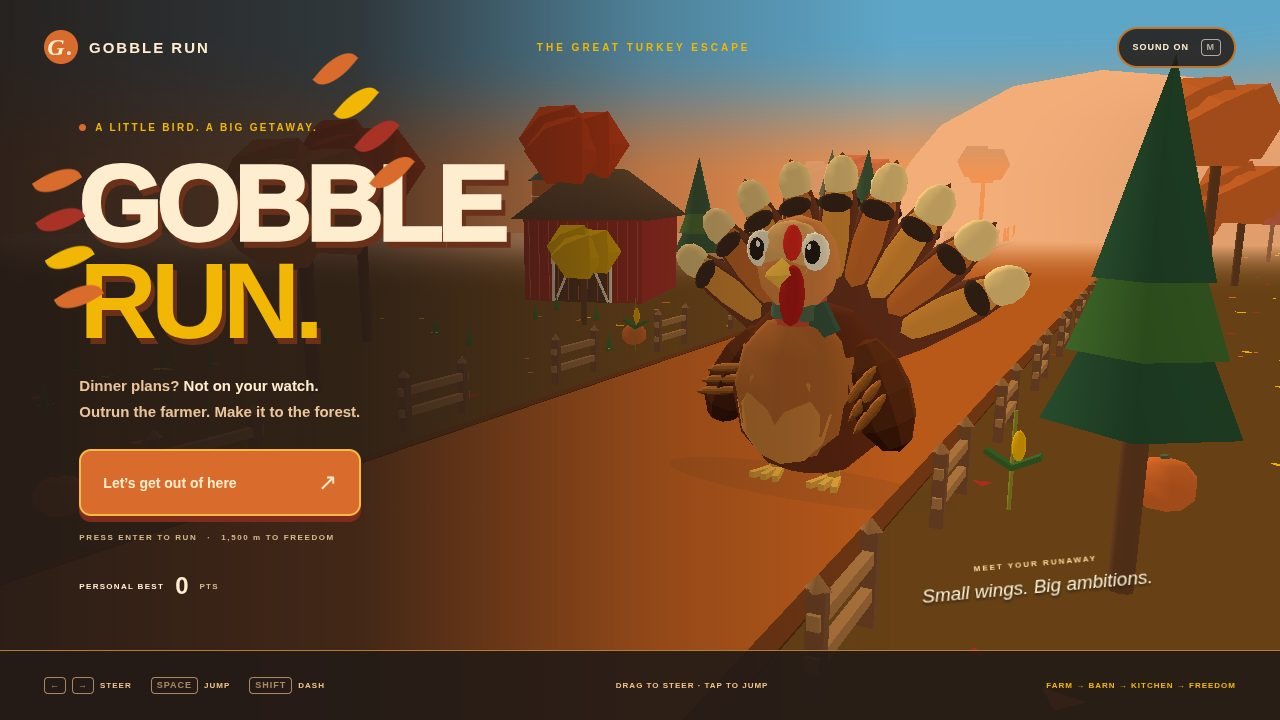
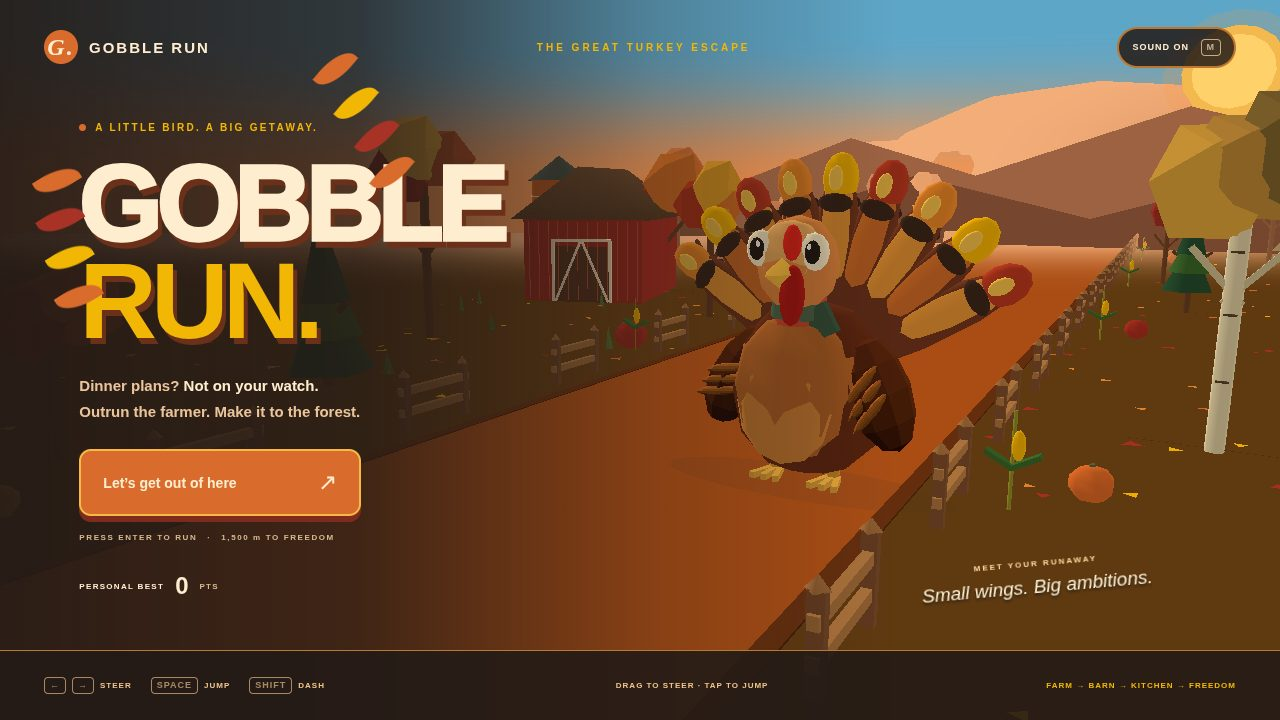
Polish: richer turkey, sunset, kitchen, and forest

diff --git a/game/src/render3d.js b/game/src/render3d.js
@@ -5,8 +5,30 @@ import {ZONES,clamp} from './config.js';
 import {turkey,farmer,animateTurkey,animateFarmer,mesh,ball,box,cyl,material} from './turkey.js';
 const C={wood:0x805232,dark:0x553922,straw:0xe4b34f,leaf:0xc27631};
 function contact(parent,x,z,r=1,opacity=.12){const m=new T.Mesh(new T.CircleGeometry(r,16).scale(1.8,.65,1),new T.MeshBasicMaterial({color:0x4d3621,transparent:true,opacity,depthWrite:false}));m.rotation.x=-Math.PI/2;m.position.set(x,.018,z);parent.add(m);return m;}
-function tree(rng){const g=new T.Group(),height=3+rng()*3;const evergreen=rng()<.25;cyl(g,0x6b4226,0,height*.45,0,.16,height);if(evergreen){for(let i=0;i<3;i++)mesh(g,new T.ConeGeometry(1.15-i*.23,2.6,5),i%2?0x3e6b2f:0x285034,0,height*.6+i*.9,0);}else{const color=[0xd96c2c,0xa93226,0xf2b705,0xe54416][Math.floor(rng()*4)];for(let i=0;i<3;i++){const a=i*2.4;mesh(g,new T.IcosahedronGeometry(1,0),color,Math.sin(a)*.65,height+i*.23,Math.cos(a)*.6,[1.45,1.35,1.3]);}}return g;}
-function pumpkin(p,x,y,z,s=1){const g=new T.Group();p.add(g);g.position.set(x,y,z);g.scale.setScalar(s);mesh(g,new T.SphereGeometry(.46,7,5),0xd96c2c,0,.34,0,[1,.85,1]);const stem=cyl(g,0x596341,0,.65,0,.06,.22);stem.rotation.z=.2;return g;}
+function ridge(parent,color,z,points){const shape=new T.Shape();shape.moveTo(points[0][0],points[0][1]);for(let i=1;i<points.length;i++)shape.lineTo(points[i][0],points[i][1]);shape.lineTo(points[points.length-1][0],-28);shape.lineTo(points[0][0],-28);shape.closePath();const m=new T.Mesh(new T.ShapeGeometry(shape),new T.MeshBasicMaterial({color,side:T.DoubleSide,fog:false}));m.position.z=z;parent.add(m);return m;}
+function tree(rng){
+ const g=new T.Group(),height=3+rng()*3,type=rng(),birch=type<.2,evergreen=type>=.2&&type<.46;
+ cyl(g,birch?0xd9cfad:0x6b4226,0,height*.45,0,birch?.19:.16,height,undefined,7);
+ const branch=(x,y,side,color=birch?0xc9bd99:0x704528,lean=.62)=>{const b=box(g,color,x,y,0,[.13,1.5,.13]);b.rotation.z=-side*lean;};
+ if(evergreen){
+  for(let i=0;i<3;i++){const size=1.2-i*.25,cy=height*.42+i*.93;mesh(g,new T.ConeGeometry(size,2.45,5),i%2?0x3e6b2f:0x285034,0,cy,0);if(i===0)for(const side of [-1,1])branch(side*.28,height*.47,side,0x674327,.9);}
+ }else if(birch){
+  for(const y of [.27,.52,.75])box(g,0x594832,0,y*height,.195,[.24,.045,.035]);
+  for(const side of [-1,1])branch(side*.32,height*.66,side,0xc9bd99,.72);
+  const shades=[0x7f6632,0xb98a3c,0xd9a641];
+  for(let i=0;i<3;i++)mesh(g,new T.IcosahedronGeometry(1,0),shades[(i+Math.floor(rng()*3))%3],(i-1)*.58,height+i*.28,0,[1.05+rng()*.35,1.05+rng()*.32,1.05+rng()*.3]);
+ }else{
+  for(const side of [-1,1])branch(side*.35,height*.56,side,0x704528,.7);
+  const palettes=[[0xa93226,0xd96c2c,0xf2b705],[0xb53b22,0xe17a2d,0xe9a72e],[0x9c3024,0xc95b2d,0xf0b947]];
+  const colors=palettes[Math.floor(rng()*palettes.length)];
+ const lobes=rng()<.4?2:3;for(let i=0;i<lobes;i++){const x=(rng()-.5)*1.6,z=(rng()-.5)*1.4;mesh(g,new T.IcosahedronGeometry(1,0),colors[i%3],x,height+i*.32,z,[1.05+rng()*.42,1.05+rng()*.4,1.02+rng()*.4]);}
+ }
+ const shade=mesh(g,new T.CircleGeometry(1,10),0x49341f,0,.025,0,[1.9,.02,1.25]);shade.rotation.x=-Math.PI/2;
+ const leafColors=[0xd96c2c,0xa93226,0xf2b705];
+ for(let i=0;i<2;i++){const leaf=mesh(g,new T.CircleGeometry(.16+rng()*.08,3),leafColors[Math.floor(rng()*leafColors.length)],(rng()-.5)*2,.035,(rng()-.5)*1.4);leaf.rotation.x=-Math.PI/2;leaf.rotation.z=rng()*6;}
+ return g;
+}
+function pumpkin(p,x,y,z,s=1,color=0xd96c2c){const g=new T.Group();p.add(g);g.position.set(x,y,z);g.scale.setScalar(s);mesh(g,new T.SphereGeometry(.46,7,5),color,0,.34,0,[1,.85,1]);const stem=cyl(g,0x596341,0,.65,0,.06,.22);stem.rotation.z=.2;return g;}
 function fence(){const g=new T.Group();for(const x of [-1,1]){box(g,C.wood,x,.65,0,[.17,1.3,.22]);mesh(g,new T.ConeGeometry(.16,.18,4),0xaa7644,x,1.38,0);}for(const y of [.45,.95])box(g,0xad7945,0,y,0,[2.3,.18,.15]);return g;}
 function hay(){const g=new T.Group();box(g,C.straw,0,.68,0,[1.85,1.36,1.45]);for(const x of [-.53,.53])box(g,0xa88037,x,.69,.01,[.075,1.4,1.48]);for(let j=0;j<7;j++)box(g,0xf2c86a,-.79+j*.26,.45+(j%3)*.25,.74,[.15,.026,.015]);return g;}
 function cart(){const g=new T.Group();box(g,0x845532,0,.73,0,[2.05,.26,2]);for(const x of [-1,1]){for(let j=0;j<3;j++)box(g,j%2?0xb2804d:0xa3703f,x,1+j*.24,0,[.12,.18,2]);for(const z of [-.65,.65]){const w=cyl(g,0x4f3927,x*1.13,.44,z,.43,.15,.43,12);w.rotation.z=Math.PI/2;const hub=cyl(g,0xc9a25f,x*1.23,.44,z,.13,.17);hub.rotation.z=Math.PI/2;}}const bale=hay();bale.scale.setScalar(.65);bale.position.y=.85;g.add(bale);return g;}
@@ -17,21 +39,27 @@ function barn(){const g=new T.Group();box(g,0xa93226,0,2,0,[6,4,8]);const roofGe
 export class Renderer3D{
  constructor(canvas,{deterministic=false}={}){const probe=document.createElement('canvas');const gl=probe.getContext('webgl2')||probe.getContext('webgl');if(!gl)throw new Error('WebGL unavailable');const ext=gl.getExtension('WEBGL_debug_renderer_info');this.device=ext?gl.getParameter(ext.UNMASKED_RENDERER_WEBGL):gl.getParameter(gl.RENDERER);this.software=/swiftshader|llvmpipe|software/i.test(this.device);this.deterministic=deterministic;this.pixelRatio=this.software?(deterministic?1:.35):Math.min(devicePixelRatio,1.75);gl.getExtension('WEBGL_lose_context')?.loseContext();
   this.renderer=new T.WebGLRenderer({canvas,antialias:!this.software,powerPreference:'high-performance'});this.renderer.setPixelRatio(this.pixelRatio);this.renderer.outputColorSpace=T.SRGBColorSpace;this.renderer.toneMapping=T.NoToneMapping;this.renderer.toneMappingExposure=1;this.renderer.shadowMap.enabled=!this.software;this.renderer.shadowMap.type=T.PCFSoftShadowMap;
-  this.scene=new T.Scene();this.scene.background=new T.Color(0xf3ad79);this.scene.fog=new T.Fog(0xf3ad79,48,100);this.camera=new T.PerspectiveCamera(43,1,.1,110);this.scene.add(new T.HemisphereLight(0xffdeb0,0x57341f,1.65));const sun=new T.DirectionalLight(0xffb868,2.15);sun.position.set(-18,14,-12);sun.castShadow=!this.software;sun.shadow.mapSize.set(1024,1024);Object.assign(sun.shadow.camera,{left:-20,right:20,top:20,bottom:-20,near:1,far:70});sun.shadow.bias=-.002;this.scene.add(sun);const rim=new T.DirectionalLight(0xffd36b,1.5);rim.position.set(8,6,-16);this.scene.add(rim);
+  this.scene=new T.Scene();this.scene.background=new T.Color(0xf3ad79);this.scene.fog=new T.Fog(0xf3ad79,48,100);this.camera=new T.PerspectiveCamera(43,1,.1,110);this.scene.add(new T.HemisphereLight(0xffd6a6,0x49301d,1.35));const sun=new T.DirectionalLight(0xffb45d,1.9);sun.position.set(-18,14,-12);sun.castShadow=!this.software;sun.shadow.mapSize.set(1024,1024);Object.assign(sun.shadow.camera,{left:-20,right:20,top:20,bottom:-20,near:1,far:70});sun.shadow.bias=-.002;this.scene.add(sun);const rim=new T.DirectionalLight(0xffcb72,1.15);rim.position.set(8,6,-16);this.scene.add(rim);
   // A single procedural gradient dome follows the camera; no texture or network asset.
   const skyGeo=new T.SphereGeometry(105,8,6);const skyMat=new T.ShaderMaterial({side:T.BackSide,depthWrite:false,uniforms:{},vertexShader:'varying vec3 v;void main(){v=position;gl_Position=projectionMatrix*modelViewMatrix*vec4(position,1.);}',fragmentShader:'varying vec3 v;void main(){float h=smoothstep(0.,14.,v.y);gl_FragColor=vec4(mix(vec3(.95,.58,.32),vec3(.37,.65,.78),h),1.);}'});this.sky=new T.Mesh(skyGeo,skyMat);this.sky.frustumCulled=false;this.scene.add(this.sky);
+  this.horizon=new T.Group();this.sky.add(this.horizon);
+  const halo=new T.Mesh(new T.CircleGeometry(5.5,16),new T.MeshBasicMaterial({color:0xff963d,transparent:true,opacity:.18,depthWrite:false,fog:false}));halo.position.set(3,10,-101);this.horizon.add(halo);
+  const sunDisk=new T.Mesh(new T.CircleGeometry(4,16),new T.MeshBasicMaterial({color:0xf3b94f,fog:false}));sunDisk.position.set(3,10,-100);this.horizon.add(sunDisk);
+  const sunCore=new T.Mesh(new T.CircleGeometry(3.2,16),new T.MeshBasicMaterial({color:0xffd16a,fog:false}));sunCore.position.set(3,10,-99.8);this.horizon.add(sunCore);
+  ridge(this.horizon,0x9c6242,-98,[[-80,-4],[-64,1],[-48,-1],[-31,5],[-18,1],[0,7],[17,2],[33,6],[49,0],[66,4],[80,-3]]);
+  ridge(this.horizon,0x76472e,-94,[[-80,-7],[-60,-2],[-43,-5],[-23,1],[-7,-3],[13,3],[29,-2],[49,2],[67,-4],[80,-6]]);
   this.ground=box(this.scene,0xa7a05a,0,-.18,-44,[240,.3,240]);this.road=box(this.scene,0xc29560,0,-.005,-48,[10,.06,180]);this.road.receiveShadow=true;for(const x of [-5.12,5.12])box(this.scene,0x6b4226,x,.025,-48,[.32,.04,180]);
   this.stripes=[];this.stripeDummy=new T.Object3D();for(let lane=0;lane<2;lane++){const m=new T.InstancedMesh(new T.BoxGeometry(1,1,1),material(0xf0ce8d),32);m.instanceMatrix.setUsage(T.DynamicDrawUsage);this.scene.add(m);this.stripes.push(m);}
-  this.environment=new T.Group();this.scene.add(this.environment);this.farmSet=new T.Group();this.environment.add(this.farmSet);const rng=random(974);this.scenery=[];for(let i=0;i<60;i++){const side=i%2?1:-1;const g=tree(rng);g.position.set(side*(8+rng()*15),0,13-i*3.5+(rng()-.5)*1.4);g.scale.setScalar(.75+rng()*.65);this.farmSet.add(g);this.scenery.push(g);}
+  this.environment=new T.Group();this.scene.add(this.environment);this.farmSet=new T.Group();this.environment.add(this.farmSet);const rng=random(974);this.scenery=[];for(let i=0;i<52;i++){const side=i%2?1:-1;const g=tree(rng);g.position.set(side*(8+rng()*15),0,13-i*4+(rng()-.5)*3.4);g.rotation.y=(rng()-.5)*.8;g.scale.setScalar(.72+rng()*.7);this.farmSet.add(g);this.scenery.push(g);}
   this.fences=[];for(let i=0;i<70;i++){const f=fence();f.rotation.y=Math.PI/2;f.position.set(i%2?6:-6,0,12-Math.floor(i/2)*6);this.farmSet.add(f);this.fences.push(f);}
   for(let i=0;i<12;i++){const hill=mesh(this.scene,new T.SphereGeometry(1,14,8),[0x824f2a,0xa5632c,0x3e6b2f][i%3],(i-6)*27,-1,-100-rng()*40,[22+rng()*15,10+rng()*10,15]);}
-  for(let i=0;i<21;i++){const p=pumpkin(this.farmSet,(i%2?1:-1)*(6.8+rng()*3),0,8-i*10,.65+rng()*.7);this.scenery.push(p);}
+  const pumpkinColors=[0xd96c2c,0xe18432,0xa93226,0xe7a432];for(let i=0;i<21;i++){const p=pumpkin(this.farmSet,(i%2?1:-1)*(6.8+rng()*3),0,8-i*10+(rng()-.5)*2,.65+rng()*.7,pumpkinColors[Math.floor(rng()*pumpkinColors.length)]);this.scenery.push(p);}
   this.barns=[];for(const [x,z,s] of [[-17,-25,1],[22,-65,.85]]){const b=barn();b.position.set(x,0,z);b.rotation.y=x<0?.28:-.4;b.scale.setScalar(s);this.farmSet.add(b);this.barns.push(b);}
   // Batched low-poly dressing: repeat the entire seeded tile, never respawn randomly.
-  for(let i=0;i<650;i++){const side=i%2?1:-1,x=side*(5.5+rng()*16),z=14-rng()*210;const leaf=mesh(this.farmSet,new T.CircleGeometry(.12+rng()*.16,3),[0xd96c2c,0xa93226,0xf2b705][i%3],x,.06,z);leaf.rotation.x=-Math.PI/2;leaf.rotation.z=rng()*6;if(i%8===0){mesh(this.farmSet,new T.ConeGeometry(.18,.7,3),0x3e6b2f,x,.3,z);}}
+  const groundLeafColors=[0xd96c2c,0xa93226,0xf2b705,0xe58b32];for(let i=0;i<650;i++){const side=i%2?1:-1,x=side*(5.5+rng()*16),z=14-rng()*210;const leaf=mesh(this.farmSet,new T.CircleGeometry(.12+rng()*.16,3),groundLeafColors[Math.floor(rng()*groundLeafColors.length)],x,.06,z);leaf.rotation.x=-Math.PI/2;leaf.rotation.z=rng()*6;if(i%8===0){const tuft=mesh(this.farmSet,new T.ConeGeometry(.15+rng()*.08,.55+rng()*.35,3),rng()<.5?0x3e6b2f:0x58733a,x,.3,z);tuft.scale.y=.75+rng()*.8;}}
   for(let i=0;i<20;i++){const side=i%2?1:-1,z=10-i*10.5;const stalk=new T.Group();cyl(stalk,0x8b8a2a,0,.9,0,.035,1.8,undefined,4);for(const d of [-1,1]){const l=box(stalk,0x3e6b2f,d*.22,.9,0,[.55,.09,.22]);l.rotation.z=d*.5;}ball(stalk,0xf2b705,.1,1.2,.1,[.12,.28,.1]);stalk.position.set(side*6.9,0,z);this.farmSet.add(stalk);if(i%4===0){const bale=hay();bale.position.set(side*9,0,z);this.farmSet.add(bale);}}
   const silo=new T.Group();cyl(silo,0xd96c2c,0,3,0,1.6,6,undefined,12);mesh(silo,new T.ConeGeometry(1.8,1.4,12),0x4d5d55,0,6.6,0);for(const y of [1,3,5])cyl(silo,0xffedcf,0,y,0,1.63,.1,undefined,12);silo.position.set(-22,0,-28);this.farmSet.add(silo);
-  this.kitchen=new T.Group();this.scene.add(this.kitchen);for(const s of [-1,1]){box(this.kitchen,0x6b4226,s*8,2,-51,[4,4,126]);box(this.kitchen,0xe6d6b5,s*8,4.1,-51,[4.2,.18,126]);for(let i=0;i<18;i++){const o=oven();o.position.set(s*7.2,4.2,10-i*7);o.scale.setScalar(.8);this.kitchen.add(o);box(this.kitchen,0x6d6a55,s*10,7,10-i*7,[.2,6,.2]);}box(this.kitchen,0x3e6b2f,s*12,7,-51,[.3,14,126]);}for(let i=0;i<14;i++)for(let j=-1;j<=1;j++)box(this.kitchen,0x847d69,j*3.3,.034,10-i*6,[.025,.01,5.95]);for(let row=0;row<42;row++)for(let col=0;col<6;col++)box(this.kitchen,(row+col)%2?0x343b35:0xdab77d,-4.17+col*1.67,.045,12-row*3,[1.66,.025,2.99]);for(let i=0;i<18;i++){const x=i%2?5.6:-5.6,z=6-i*7;cyl(this.kitchen,0x2e3735,x,5.2,z,.48,.16,undefined,8);box(this.kitchen,0x2e3735,x,5.8,z,[.09,1.2,.09]);}this.kitchen.visible=false;bake(this.kitchen,[],true);this.kitchenTile=this.kitchen.clone(true);this.scene.add(this.kitchenTile);bake(this.farmSet,[],true);this.farmTile=this.farmSet.clone(true);this.farmTile.position.z=-210;this.environment.add(this.farmTile);
+  this.kitchen=new T.Group();this.scene.add(this.kitchen);for(const s of [-1,1]){box(this.kitchen,0x6b4226,s*8,2,-51,[4,4,126]);box(this.kitchen,0xe6d6b5,s*8,4.1,-51,[4.2,.18,126]);for(let i=0;i<18;i++){const o=oven();o.position.set(s*7.2,4.2,10-i*7);o.scale.setScalar(.8);this.kitchen.add(o);box(this.kitchen,0x6d6a55,s*10,7,10-i*7,[.2,6,.2]);}box(this.kitchen,0x3e6b2f,s*12,7,-51,[.3,14,126]);for(let j=0;j<21;j++){const z=9-j*6;box(this.kitchen,j%2?0x46583b:0x536344,s*11.81,7,z,[.08,12.3,5.45]);box(this.kitchen,0x68482d,s*11.73,7,z,[.12,13.6,.14]);}for(const y of [.8,3.4,6.9,10.4,13.1])box(this.kitchen,0x8e6339,s*11.73,y,-51,[.12,.16,126]);}for(let i=0;i<14;i++)for(let j=-1;j<=1;j++)box(this.kitchen,0x847d69,j*3.3,.034,10-i*6,[.025,.01,5.95]);for(let row=0;row<42;row++)for(let col=0;col<6;col++)box(this.kitchen,(row+col)%2?0x343b35:0xdab77d,-4.17+col*1.67,.045,12-row*3,[1.66,.025,2.99]);for(let i=0;i<18;i++){const x=i%2?5.6:-5.6,z=6-i*7;cyl(this.kitchen,0x2e3735,x,5.2,z,.48,.16,undefined,8);box(this.kitchen,0x2e3735,x,5.8,z,[.09,1.2,.09]);}this.kitchen.visible=false;bake(this.kitchen,[],true);this.kitchenTile=this.kitchen.clone(true);this.scene.add(this.kitchenTile);bake(this.farmSet,[],true);this.farmTile=this.farmSet.clone(true);this.farmTile.position.z=-210;this.environment.add(this.farmTile);
   this.barnInterior=new T.Group();for(let i=0;i<12;i++){const z=12-i*10;for(const side of [-1,1]){box(this.barnInterior,0x715135,side*6,3.6,z,[.48,7.2,.5]);box(this.barnInterior,0x9d7141,side*7.4,.8,z,[2,.3,8]);box(this.barnInterior,0xa57848,side*7.4,2.1,z,[2,.3,8]);const bale=hay();bale.position.set(side*7.4,2.25,z);this.barnInterior.add(bale);const brace=box(this.barnInterior,0xa17a4b,side*3.2,7.8,z,[7.2,.25,.3]);brace.rotation.z=side*-.24;}box(this.barnInterior,0x5b412c,0,6.8,z,[12.5,.27,.35]);box(this.barnInterior,0x38291e,0,5.9,z,[.05,1.6,.05]);box(this.barnInterior,0xffb529,0,5,z,[.45,.65,.45]);for(const x of [-.25,.25])box(this.barnInterior,0x38291e,x,5,z,[.045,.75,.5]);}bake(this.barnInterior,[],true);this.barnInterior.visible=false;this.scene.add(this.barnInterior);this.barnTile=this.barnInterior.clone(true);this.scene.add(this.barnTile);
   const gate=new T.Group();for(const x of [-5.3,5.3])cyl(gate,0x615538,x,4,0,.4,8);box(gate,0x7c6538,0,7.5,0,[11.8,1,.5]);this.gate=gate;this.scene.add(gate);
   this.forest=new T.Group();const forestRng=random(31);for(let i=0;i<35;i++){const tr=tree(forestRng);tr.position.set((forestRng()-.5)*34,0,-5-forestRng()*45);tr.scale.setScalar(1.1+forestRng());this.forest.add(tr);}bake(this.forest,[],true);this.forest.visible=false;this.scene.add(this.forest);

diff --git a/game/src/turkey.js b/game/src/turkey.js
@@ -8,7 +8,7 @@ export const box=(p,c,x,y,z,s)=>mesh(p,new T.BoxGeometry(1,1,1),c,x,y,z,s);
 export const cyl=(p,c,x,y,z,r,h,r2=r,n=10)=>mesh(p,new T.CylinderGeometry(r2,r,h,n),c,x,y,z);
 export function turkey(){const root=new T.Group(),body=new T.Group();root.add(body);root.userData.body=body;
  // Individual two-tone feathers form a scalloped, radial tail, rather than a flat sprite.
- const fan=new T.Group();fan.position.set(0,1.25,-.52);body.add(fan);for(let i=0;i<9;i++){const a=(i-4)*.26;const feather=new T.Group();feather.rotation.z=a;fan.add(feather);ball(feather,0x743b24,0,1.03,0,[.25,1.22,.12]);ball(feather,i%2?0xcd702d:0xe3973b,0,1.38,0,[.205,.81,.15]);ball(feather,0xf6d58b,0,1.98,0,[.19,.24,.16]);ball(feather,0x402b21,0,1.73,.12,[.19,.1,.05]);ball(feather,0x402b21,0,1.73,-.12,[.19,.1,.05]);}
+ const fan=new T.Group();fan.position.set(0,1.25,-.52);body.add(fan);for(let i=0;i<9;i++){const a=(i-4)*.26;const feather=new T.Group();feather.rotation.z=a;fan.add(feather);ball(feather,0x743b24,0,1.03,0,[.25,1.22,.12]);ball(feather,i%2?0xcd702d:0xe3973b,0,1.38,0,[.205,.81,.15]);ball(feather,i%3===0?0xb83c25:i%3===1?0xf2b705:0xe88b2e,0,1.98,0,[.2,.27,.16]);ball(feather,0x402b21,0,1.73,.12,[.19,.1,.05]);ball(feather,0x402b21,0,1.73,-.12,[.19,.1,.05]);ball(feather,0xf2c451,0,1.98,.142,[.08,.13,.035]);}
  ball(body,0x6b3019,0,1.1,0,[.88,.93,.75]);ball(body,0xb5682d,0,1.17,.39,[.68,.74,.5]);ball(body,0xce863c,0,1.02,.66,[.5,.58,.19]);const wings=[];for(const side of [-1,1]){const wing=ball(body,0x6c3c25,side*.76,1.15,.05,[.29,.6,.5]);wing.rotation.z=side*.32;wings.push(wing);for(let j=0;j<3;j++){const stripe=ball(wing,0xd59045,0,-.2+j*.23,.87,[.8,.1,.12]);stripe.rotation.z=.3;}}
  const neck=cyl(body,0xc94f32,0,1.92,.37,.23,.83,.25);neck.rotation.x=-.18;ball(body,0xe28c47,0,2.42,.49,[.43,.46,.4]);ball(body,0xedb268,0,2.52,.66,[.35,.32,.22]);for(const side of [-1,1]){ball(body,0xfff7dc,side*.267,2.56,.76,[.155,.18,.09]);ball(body,0x2a211b,side*.28,2.56,.83,[.078,.11,.04]);ball(body,0xffffff,side*.26,2.61,.859,[.023,.032,.012]);}const beak=mesh(body,new T.ConeGeometry(.19,.45,4),0xf4be46,0,2.35,1);beak.rotation.x=Math.PI/2;ball(body,0xb51d18,.11,2.15,.85,[.13,.29,.12]);ball(body,0xe62b20,.1,2.64,.88,[.095,.17,.075]);
  const band=cyl(body,0x536d53,0,1.96,.4,.27,.16,.27);const scarf=box(body,0x3d5b45,.24,1.86,.49,[.32,.31,.1]);scarf.rotation.z=.55;
